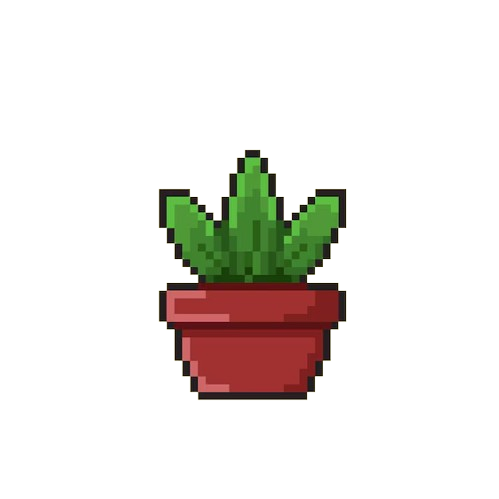
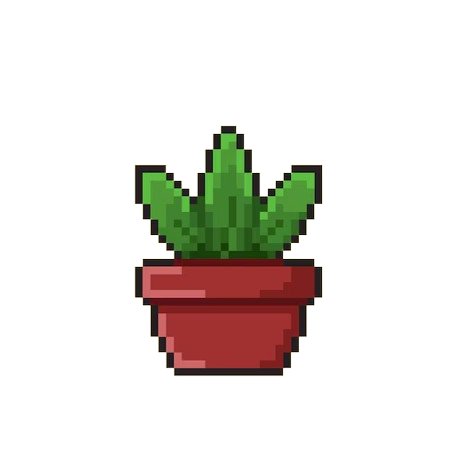
ajuste de tamanho de obstaculos

Changed region(s): [[0.28, 0.28, 0.7156, 0.84]]

diff --git a/src/config.h b/src/config.h
@@ -10,8 +10,8 @@
 #define PLAYER_HEIGHT 70
 #define PLAYER_SPEED 300.0f
 
-#define OBSTACLE_WIDTH 50
-#define OBSTACLE_HEIGHT 50
+#define OBSTACLE_WIDTH 80
+#define OBSTACLE_HEIGHT 80
 #define OBSTACLE_SPEED 350.0f
 
 #define BUILDING_X 250